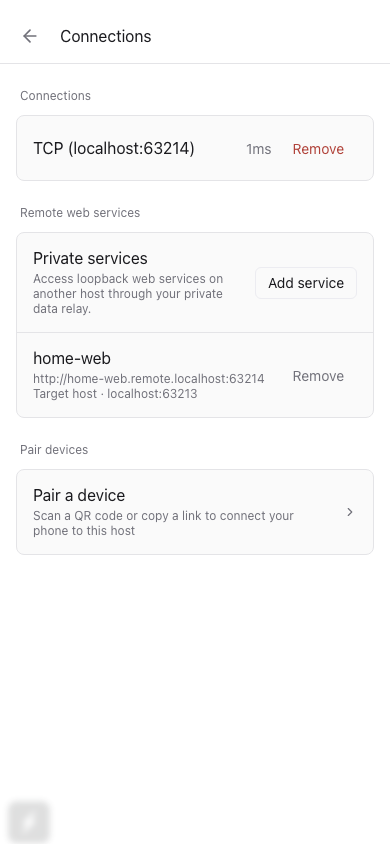
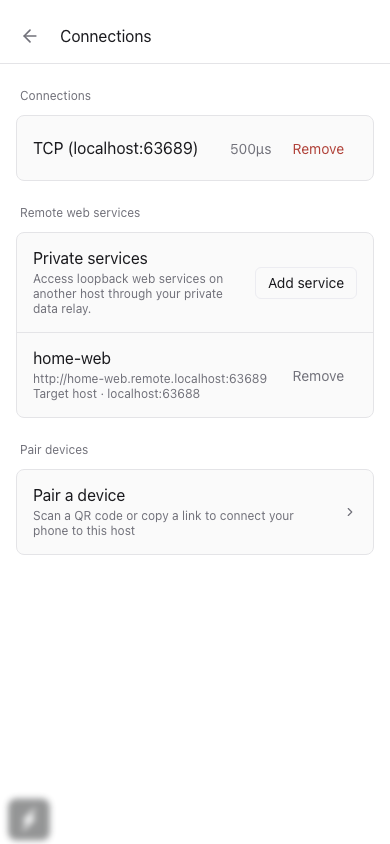
fix: stabilize remote service grant repair

diff --git a/packages/app/src/hooks/use-remote-web-services.test.tsx b/packages/app/src/hooks/use-remote-web-services.test.tsx
@@ -2,7 +2,7 @@
  * @vitest-environment jsdom
  */
 import { QueryClient, QueryClientProvider } from "@tanstack/react-query";
-import { cleanup, renderHook, waitFor } from "@testing-library/react";
+import { act, cleanup, renderHook, waitFor } from "@testing-library/react";
 import React, { type PropsWithChildren } from "react";
 import { afterEach, beforeEach, describe, expect, it, vi } from "vitest";
 import { useRemoteWebServices } from "./use-remote-web-services";
@@ -21,7 +21,9 @@ const SERVICE = {
 };
 
 const mocks = vi.hoisted(() => ({
+  create: vi.fn(),
   grant: vi.fn(),
+  remove: vi.fn(),
   statuses: new Map<string, string>(),
   query: {
     data: [] as (typeof SERVICE)[],
@@ -39,7 +41,10 @@ vi.mock("@/runtime/host-runtime", () => ({
     getClient: (serverId: string) =>
       serverId === "target" ? { grantRemoteWebService: mocks.grant } : null,
   }),
-  useHostRuntimeClient: () => ({}),
+  useHostRuntimeClient: () => ({
+    createRemoteWebService: mocks.create,
+    removeRemoteWebService: mocks.remove,
+  }),
   useHostRuntimeConnectionStatuses: () => mocks.statuses,
   useHostRuntimeIsConnected: () => true,
 }));
@@ -48,18 +53,23 @@ vi.mock("react-i18next", () => ({
   useTranslation: () => ({ t: (key: string) => key }),
 }));
 
-function createWrapper() {
+function createHarness() {
   const queryClient = new QueryClient({
     defaultOptions: { queries: { retry: false }, mutations: { retry: false } },
   });
-  return function Wrapper({ children }: PropsWithChildren) {
-    return <QueryClientProvider client={queryClient}>{children}</QueryClientProvider>;
+  return {
+    queryClient,
+    wrapper: function Wrapper({ children }: PropsWithChildren) {
+      return <QueryClientProvider client={queryClient}>{children}</QueryClientProvider>;
+    },
   };
 }
 
 describe("useRemoteWebServices authorization reconciliation", () => {
   beforeEach(() => {
+    mocks.create.mockReset();
     mocks.grant.mockReset().mockResolvedValue({});
+    mocks.remove.mockReset();
     mocks.statuses = new Map([["target", "online"]]);
     mocks.query.data = [SERVICE];
     mocks.query.error = null;
@@ -68,9 +78,10 @@ describe("useRemoteWebServices authorization reconciliation", () => {
 
   afterEach(cleanup);
 
-  it("repairs a missing target grant for every persisted source mapping", async () => {
-    renderHook(() => useRemoteWebServices("source", true, "source-key"), {
-      wrapper: createWrapper(),
+  it("repairs once without resending grants for unrelated runtime updates", async () => {
+    const { wrapper } = createHarness();
+    const { rerender } = renderHook(() => useRemoteWebServices("source", true, "source-key"), {
+      wrapper,
     });
 
     await waitFor(() => {
@@ -80,12 +91,20 @@ describe("useRemoteWebServices authorization reconciliation", () => {
         targetPort: 5173,
       });
     });
+
+    mocks.statuses = new Map([
+      ["target", "online"],
+      ["unrelated", "offline"],
+    ]);
+    await act(async () => rerender());
+    expect(mocks.grant).toHaveBeenCalledOnce();
   });
 
   it("waits until the target host is online before repairing its grant", async () => {
     mocks.statuses = new Map([["target", "offline"]]);
+    const { wrapper } = createHarness();
     const { rerender } = renderHook(() => useRemoteWebServices("source", true, "source-key"), {
-      wrapper: createWrapper(),
+      wrapper,
     });
     expect(mocks.grant).not.toHaveBeenCalled();
 
@@ -95,10 +114,38 @@ describe("useRemoteWebServices authorization reconciliation", () => {
     await waitFor(() => expect(mocks.grant).toHaveBeenCalledOnce());
   });
 
+  it("repairs a persisted mapping after its create response is lost", async () => {
+    mocks.query.data = [];
+    mocks.create.mockImplementation(async () => {
+      mocks.query.data = [SERVICE];
+      throw new Error("response lost");
+    });
+    const { queryClient, wrapper } = createHarness();
+    const invalidate = vi.spyOn(queryClient, "invalidateQueries");
+    const { result, rerender } = renderHook(
+      () => useRemoteWebServices("source", true, "source-key"),
+      { wrapper },
+    );
+
+    await act(async () => {
+      await expect(
+        result.current.createService({ name: SERVICE.name, target: SERVICE.target }),
+      ).rejects.toThrow("response lost");
+    });
+    expect(invalidate).toHaveBeenCalledWith({
+      queryKey: ["remoteWebServices", "source"],
+    });
+
+    rerender();
+    await waitFor(() => expect(mocks.grant).toHaveBeenCalledOnce());
+    expect(result.current.services).toEqual([SERVICE]);
+  });
+
   it("surfaces a reconciliation failure without hiding the mapping", async () => {
     mocks.grant.mockResolvedValue({ error: "denied" });
+    const { wrapper } = createHarness();
     const { result } = renderHook(() => useRemoteWebServices("source", true, "source-key"), {
-      wrapper: createWrapper(),
+      wrapper,
     });
 
     await waitFor(() => {

diff --git a/packages/app/src/hooks/use-remote-web-services.ts b/packages/app/src/hooks/use-remote-web-services.ts
@@ -1,5 +1,5 @@
 import { useMutation, useQueryClient } from "@tanstack/react-query";
-import { useEffect, useMemo, useState } from "react";
+import { useEffect, useMemo, useRef, useState } from "react";
 import { useTranslation } from "react-i18next";
 import type { RemoteWebService, RemoteWebServiceTarget } from "@bytetrue/byspace-protocol/messages";
 import { useFetchQuery } from "@/data/query";
@@ -47,13 +47,24 @@ export function useRemoteWebServices(
   );
   const targetStatuses = useHostRuntimeConnectionStatuses(targetServerIds);
   const [reconciliationError, setReconciliationError] = useState<string | null>(null);
+  const reconciliationFailureMessage = t(
+    "settings.host.remoteWebServices.authorizationRepairFailed",
+  );
+  const repairCandidates = services.filter(
+    (service) => targetStatuses.get(service.target.serverId) === "online",
+  );
+  const repairSignature = repairCandidates
+    .map((service) => `${service.id}:${service.target.serverId}:${service.target.port}`)
+    .sort()
+    .join("|");
+  const repairCandidatesRef = useRef(repairCandidates);
+  repairCandidatesRef.current = repairCandidates;
 
   useEffect(() => {
     if (!sourceDaemonPublicKeyB64 || !isConnected) return;
     let cancelled = false;
     void Promise.all(
-      services.map(async (service) => {
-        if (targetStatuses.get(service.target.serverId) !== "online") return;
+      repairCandidatesRef.current.map(async (service) => {
         const targetClient = getHostRuntimeStore().getClient(service.target.serverId);
         if (!targetClient) return;
         const result = await targetClient.grantRemoteWebService({
@@ -70,7 +81,7 @@ export function useRemoteWebServices(
       },
       () => {
         if (!cancelled) {
-          setReconciliationError(t("settings.host.remoteWebServices.authorizationRepairFailed"));
+          setReconciliationError(reconciliationFailureMessage);
         }
         return undefined;
       },
@@ -78,7 +89,13 @@ export function useRemoteWebServices(
     return () => {
       cancelled = true;
     };
-  }, [isConnected, services, sourceDaemonPublicKeyB64, t, targetStatuses]);
+  }, [
+    isConnected,
+    reconciliationFailureMessage,
+    repairSignature,
+    services,
+    sourceDaemonPublicKeyB64,
+  ]);
 
   const createMutation = useMutation({
     mutationFn: async (input: { name: string; target: RemoteWebServiceTarget }) => {

diff --git a/packages/app/e2e/remote-web-services.spec.ts b/packages/app/e2e/remote-web-services.spec.ts
@@ -8,7 +8,7 @@ import { expect, test } from "./fixtures";
 import { gotoAppShell, openSettings } from "./helpers/app";
 import { openSettingsHost, seedSavedSettingsHosts, selectSettingsHost } from "./helpers/settings";
 const DATA_RELAY_ACCESS_TOKEN = "playwright-remote-web-services-token";
-const REPO_ROOT = path.resolve(process.cwd(), "../..");
+const REPO_ROOT = path.resolve(__dirname, "../../..");
 const SERVER_DIR = path.join(REPO_ROOT, "packages/server");
 const TSX_BIN = path.join(
   REPO_ROOT,
